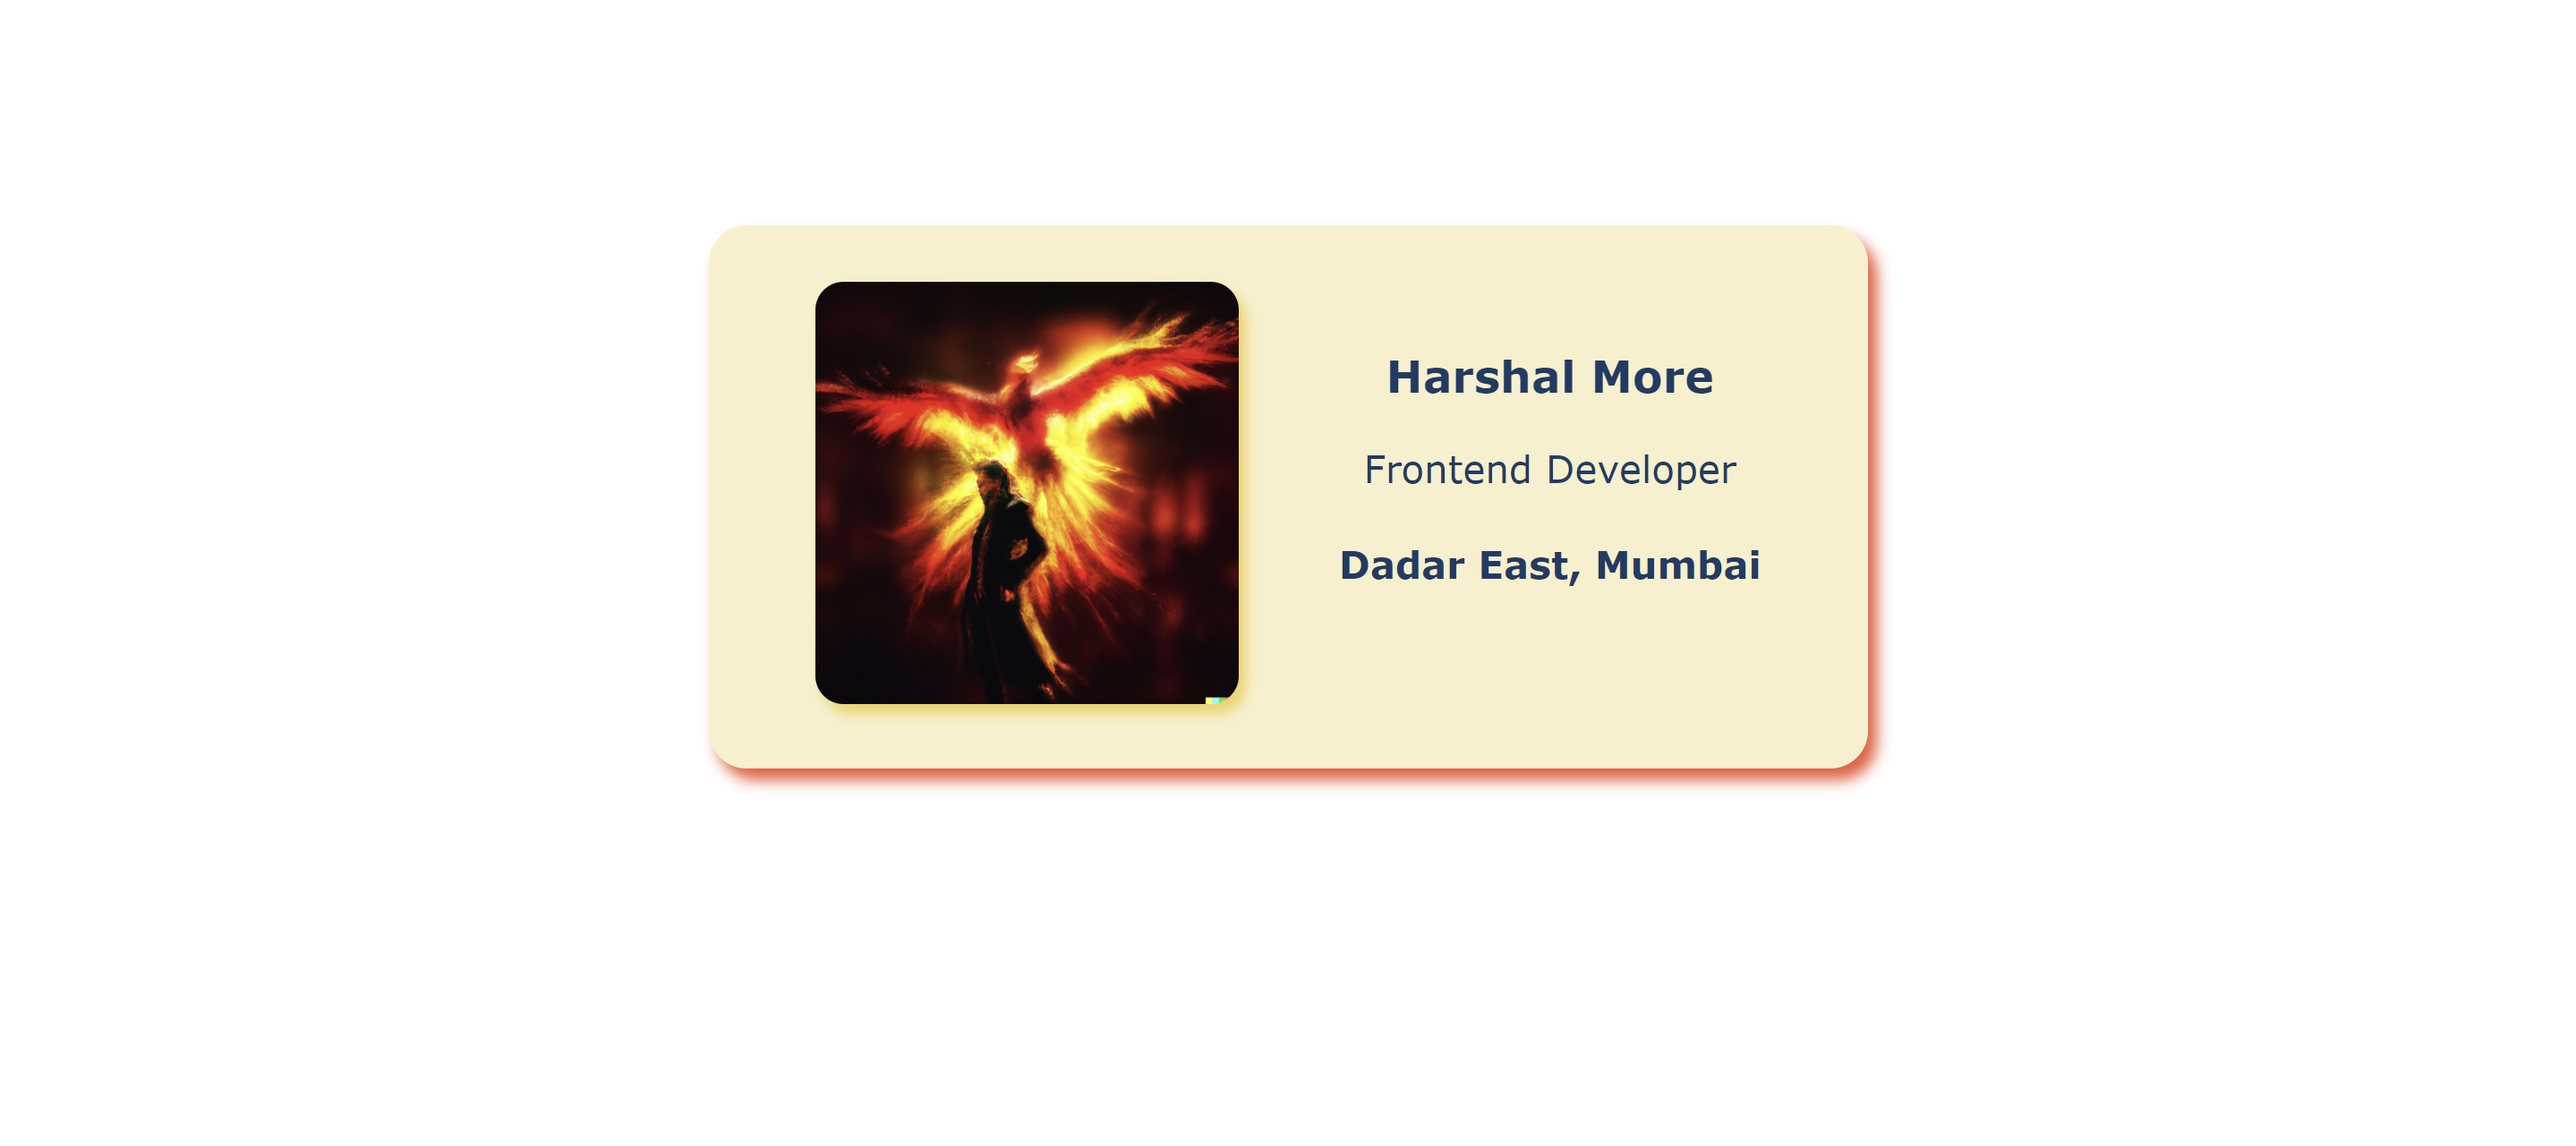
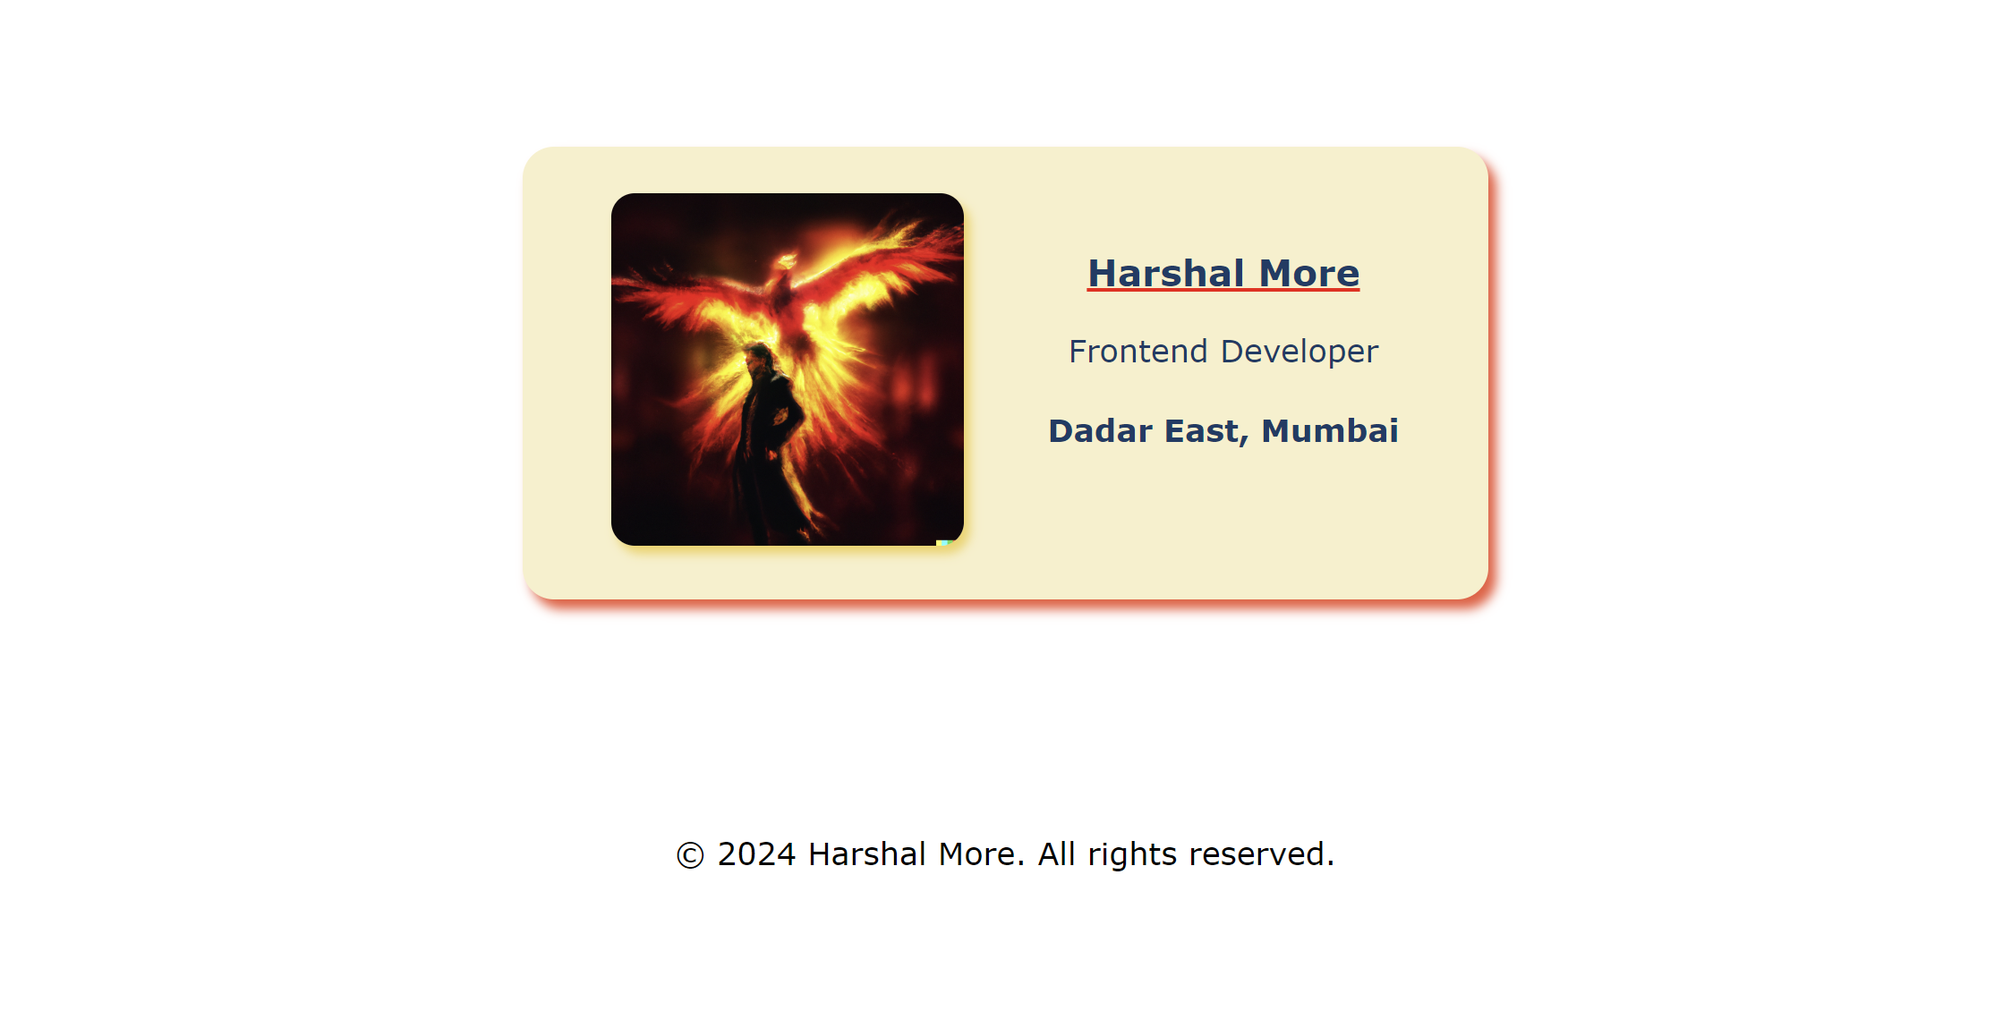
updates

diff --git a/Projects/profile_info/index.html b/Projects/profile_info/index.html
@@ -20,5 +20,8 @@
             Please connect with me on <a href="https://www.linkedin.com/in/harshalmore31/">linkedIn here</a>
         <input type="email" alt="Enter your email">
         <button id="btn-letter">Join Newsletter</button>
+        <footer>
+            <p>&copy; 2024 Harshal More. All rights reserved.</p>
+        </footer>    
     </body>
 </html>

diff --git a/Projects/digital_business_card/index.html b/Projects/digital_business_card/index.html
@@ -15,7 +15,10 @@
                 <h3>Harshal More</h3>
                 <p class="center">Frontend Developer</p>
                 <h4 class="center">Dadar East, Mumbai</h4>
-            </div>
+            </div>   
     </div>
+    <footer>
+        <p>&copy; 2024 Harshal More. All rights reserved.</p>
+    </footer> 
 </body>
 </html>

diff --git a/Projects/profile_info/styles.css b/Projects/profile_info/styles.css
@@ -92,3 +92,6 @@ button:hover, input:hover {
     box-shadow: 2px 2px 2px lightgreen;
 }
 
+footer{
+    margin-top: 40px;
+}

diff --git a/Projects/digital_business_card/style.css b/Projects/digital_business_card/style.css
@@ -57,3 +57,6 @@ h3:hover{
     box-shadow: 0px 2.8px 0px #f95738;
 }
 
+footer{
+    margin-top: 120px;
+}
